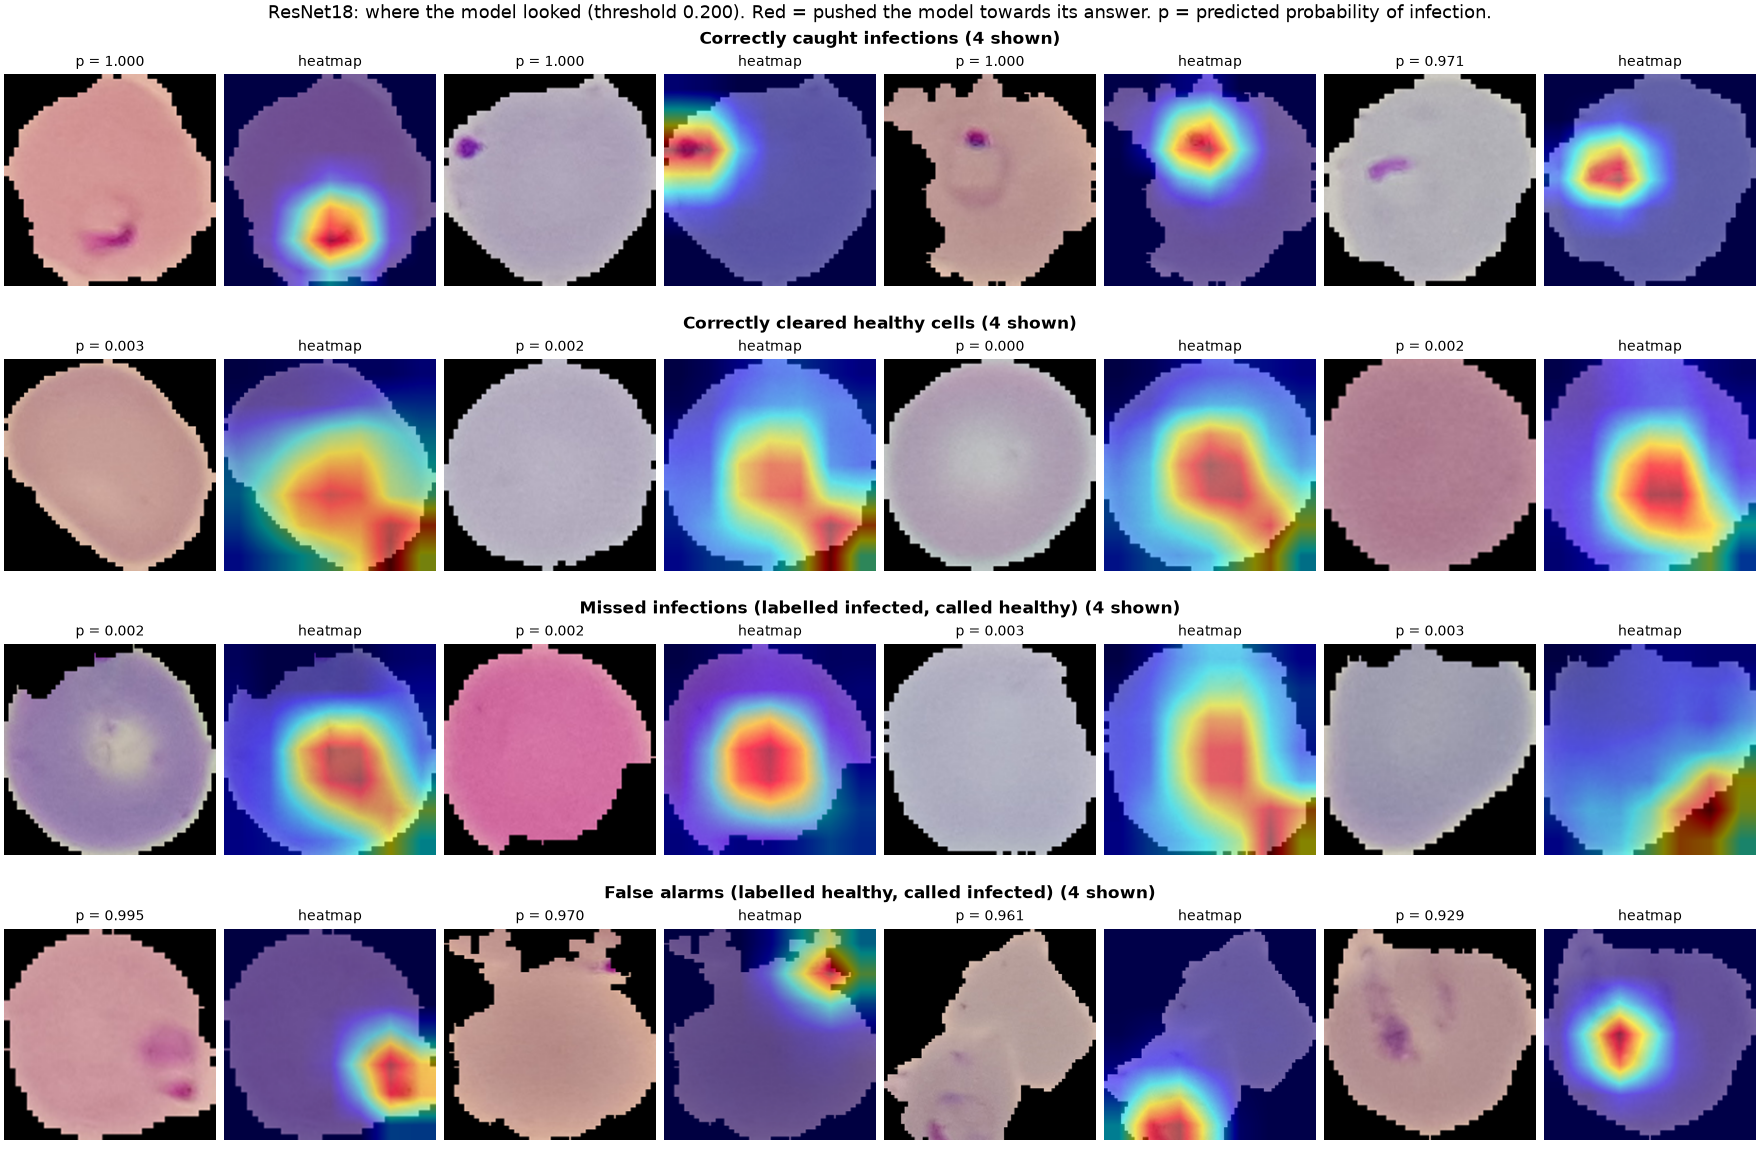
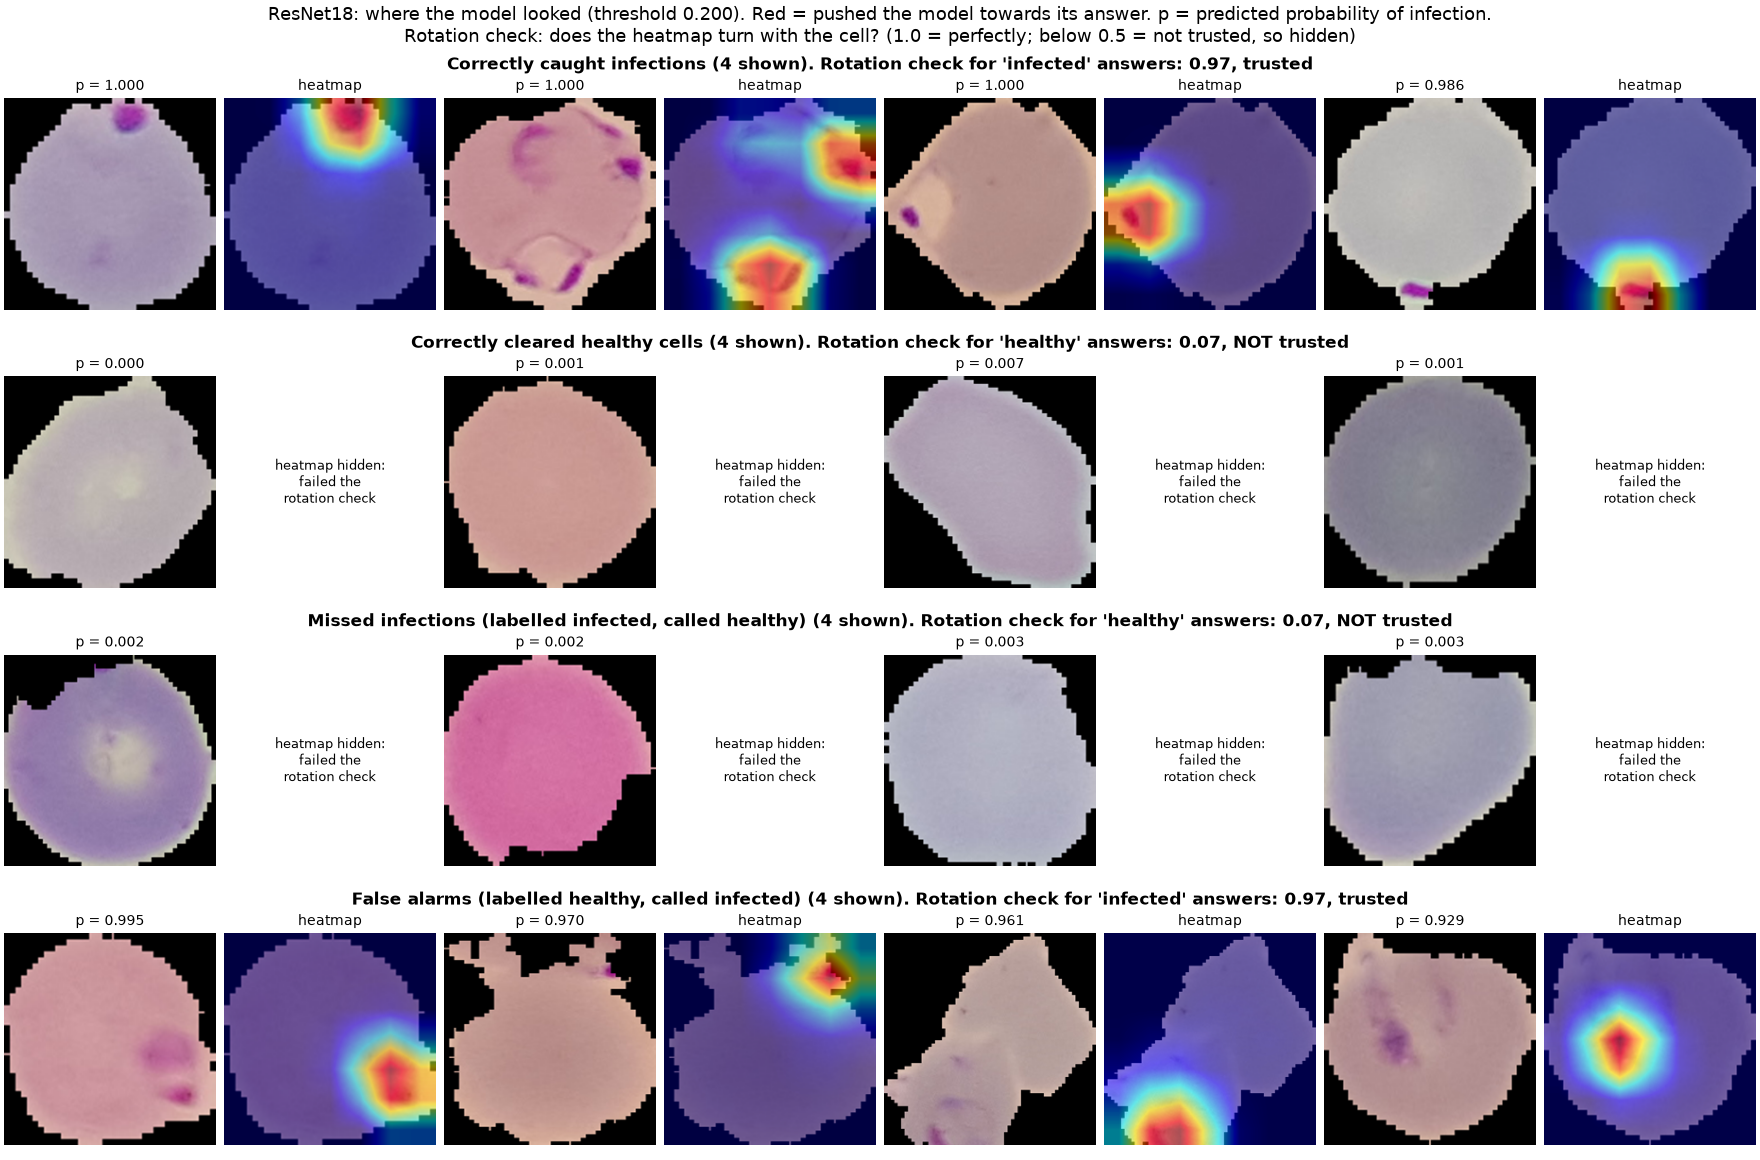
phase 7 recheck: rotation check for Grad-CAM, corrected findings
The recheck found that ResNet18's "why healthy?" heatmaps don't follow
the cell: rotating cells 180 degrees left their peak in the picture's
bottom-right corner (agreement 0.07; 91% bottom-right peaks either way).
ResNet18's decisions are not affected (mean |change in p| 0.018 under
rotation), so this is an explanation artifact, not a shortcut.

- gradcam.py: rotation check per model and answer; heatmaps scoring
  below 0.5 are hidden with a note; scores saved to gradcam_checks.json
  (SimpleCNN 0.96 / 0.93, ResNet18 0.97 / 0.07)
- tests: the check passes heatmaps that turn with the cell and fails
  heatmaps stuck in one corner
- learning notes: removed the "every example shown" overstatement and
  the unsupported description of ResNet18's healthy heatmaps

diff --git a/src/gradcam.py b/src/gradcam.py
@@ -19,10 +19,17 @@ How Grad-CAM works, in plain words:
        only the positive part: a coarse heatmap (7x7), stretched to the image's
        size and laid over the cell. Red = "this pushed me towards my answer".
 
+Can we trust a heatmap? Not automatically. In the Phase 7 recheck, ResNet18's
+"why healthy?" heatmaps turned out to light up the picture's bottom-right corner
+for almost every cell, rotated or not: a quirk of the model's machinery, not
+evidence. So every kind of heatmap now has to pass a ROTATION CHECK: rotate the
+cell 180°, and the heat must move with it. Heatmaps that fail are hidden.
+
 What happens, in the order of this file:
     1. target_layer_for()      which layer's feature maps to use, per model
     2. choose_examples()       pick cells: caught, cleared, missed, false alarms
     3. compute_heatmaps()      Grad-CAM itself (using the grad-cam library)
+    3b. rotation_check()       does each kind of heatmap turn with the cell?
     4. plots                   one grid per model, plus the cells BOTH models got wrong
     5. run_gradcam()           all of the above, for every trained model found
 
@@ -179,6 +186,88 @@ def overlay(display_image: np.ndarray, heatmap: np.ndarray) -> np.ndarray:
 
 
 # ===========================================================================
+# 3b. The rotation check: can we trust a heatmap?
+# ===========================================================================
+
+def content_agreement(heatmaps: np.ndarray, heatmaps_of_rotated: np.ndarray) -> float:
+    """
+    How well heatmaps "turn with the cell" (1.0 = perfectly, 0 = not at all).
+
+    heatmaps:            Grad-CAM for the original cells          (num_cells, height, width)
+    heatmaps_of_rotated: Grad-CAM for the same cells rotated 180° (num_cells, height, width)
+
+    We rotate the second set back and measure how similar each pair is (a
+    correlation). If the heatmap shows something IN the cell, rotating the cell
+    moves the heat with it, so after rotating back the two match. If the heat
+    sits at a fixed spot of the picture whatever the cell looks like (a quirk of
+    the model's machinery, not evidence), they don't.
+    """
+    rotated_back = np.rot90(heatmaps_of_rotated, k=2, axes=(1, 2))
+    correlations = []
+    for original, returned in zip(heatmaps, rotated_back):
+        if original.std() == 0 or returned.std() == 0:
+            continue  # a completely flat heatmap has no "where", so it can't be compared
+        correlations.append(np.corrcoef(original.ravel(), returned.ravel())[0, 1])
+    if not correlations:
+        return 0.0
+    return float(np.mean(correlations))
+
+
+def rotation_check(
+    model: nn.Module,
+    test_rows: pd.DataFrame,
+    data_dir: Path,
+    image_size: int,
+    probabilities: np.ndarray,
+    threshold: float,
+    rng: np.random.Generator,
+) -> dict[str, float]:
+    """
+    Run the rotation check separately for cells the model called infected and
+    cells it called healthy, because the two kinds of heatmap can behave differently.
+    Returns {"infected": agreement, "healthy": agreement}.
+    """
+    called_infected = predict_infected(probabilities, threshold)
+    agreements = {}
+    for answer_name, answer in (("infected", 1), ("healthy", 0)):
+        candidates = np.where(called_infected == answer)[0]
+        chosen = rng.permutation(candidates)[:config.GRADCAM_CHECK_CELLS]
+        if len(chosen) == 0:
+            agreements[answer_name] = 0.0  # the model never gave this answer: nothing to check or show
+            continue
+        heatmaps = []
+        heatmaps_of_rotated = []
+        # Small chunks, so memory use stays low.
+        for start in range(0, len(chosen), config.BATCH_SIZE):
+            chunk = chosen[start:start + config.BATCH_SIZE]
+            images = load_model_inputs(test_rows, chunk, data_dir, image_size)  # (chunk, 3, size, size)
+            rotated = torch.rot90(images, k=2, dims=(2, 3))                        # each picture turned 180°
+            explain_labels = [answer] * len(chunk)
+            heatmaps.append(compute_heatmaps(model, images, explain_labels))
+            heatmaps_of_rotated.append(compute_heatmaps(model, rotated, explain_labels))
+        agreements[answer_name] = content_agreement(np.concatenate(heatmaps), np.concatenate(heatmaps_of_rotated))
+    return agreements
+
+
+def passes_check(agreement: float) -> bool:
+    """True if heatmaps of this kind can be trusted (they turn with the cell)."""
+    return agreement >= config.GRADCAM_MIN_AGREEMENT
+
+
+def answer_for_group(group: str) -> str:
+    """Which answer the model gave for a group of cells: caught and false alarms were called infected."""
+    if group in ("caught", "false_alarm"):
+        return "infected"
+    return "healthy"
+
+
+def show_hidden_heatmap(axis: plt.Axes) -> None:
+    """Draw a short note instead of a heatmap that failed the rotation check."""
+    axis.text(0.5, 0.5, "heatmap hidden:\nfailed the\nrotation check", ha="center", va="center",
+              fontsize=9, transform=axis.transAxes)
+
+
+# ===========================================================================
 # 4. Plots
 # ===========================================================================
 
@@ -191,19 +280,30 @@ def plot_model_gradcam(
     data_dir: Path,
     probabilities: np.ndarray,
     threshold: float,
+    agreements: dict[str, float],
     path: Path,
 ) -> None:
-    """One grid per model: a row per group, each cell shown as original | heatmap."""
+    """
+    One grid per model: a row per group, each cell shown as original | heatmap.
+    Each row shows the rotation check for its kind of heatmap; failing heatmaps are hidden.
+    """
     per_group = config.GRADCAM_EXAMPLES_PER_GROUP
     figure = plt.figure(figsize=(2.2 * 2 * per_group, 2.9 * len(GROUP_TITLES)), layout="constrained")
     figure.suptitle(f"{DISPLAY_NAMES[model_name]}: where the model looked (threshold {threshold:.3f}). "
-                    "Red = pushed the model towards its answer. p = predicted probability of infection.",
+                    "Red = pushed the model towards its answer. p = predicted probability of infection.\n"
+                    f"Rotation check: does the heatmap turn with the cell? (1.0 = perfectly; "
+                    f"below {config.GRADCAM_MIN_AGREEMENT} = not trusted, so hidden)",
                     fontsize=13)
     row_figures = figure.subfigures(len(GROUP_TITLES), 1)
 
     for row_figure, (group, group_title) in zip(row_figures, GROUP_TITLES.items()):
         indices = examples[group]
-        row_figure.suptitle(f"{group_title} ({len(indices)} shown)", fontweight="bold")
+        answer = answer_for_group(group)
+        agreement = agreements[answer]
+        verdict = "trusted" if passes_check(agreement) else "NOT trusted"
+        row_figure.suptitle(f"{group_title} ({len(indices)} shown). "
+                            f"Rotation check for '{answer}' answers: {agreement:.2f}, {verdict}",
+                            fontweight="bold")
         axes = row_figure.subplots(1, 2 * per_group)
         for axis in axes:
             axis.axis("off")
@@ -221,8 +321,11 @@ def plot_model_gradcam(
             heatmap_axis = axes[2 * position + 1]
             original_axis.imshow(display_image)
             original_axis.set_title(f"p = {probabilities[index]:.3f}", fontsize=10)
-            heatmap_axis.imshow(overlay(display_image, heatmaps[position]))
-            heatmap_axis.set_title("heatmap", fontsize=10)
+            if passes_check(agreement):
+                heatmap_axis.imshow(overlay(display_image, heatmaps[position]))
+                heatmap_axis.set_title("heatmap", fontsize=10)
+            else:
+                show_hidden_heatmap(heatmap_axis)
 
     figure.savefig(path, dpi=100)
     plt.close(figure)
@@ -280,9 +383,15 @@ def plot_shared_mistakes(
         axes[row, 0].imshow(display_image)
         axes[row, 0].set_title(f"labelled {label_name}", fontsize=10)
         for column, model_name in enumerate(model_names, start=1):
-            probability = results_by_model[model_name]["probabilities"][index]
-            axes[row, column].imshow(overlay(display_image, heatmaps_by_model[model_name][row]))
+            results = results_by_model[model_name]
+            probability = results["probabilities"][index]
+            # Every model got this cell wrong, so its answer is the opposite of the label.
+            answer = "healthy" if labels[index] == config.LABEL_PARASITIZED else "infected"
             axes[row, column].set_title(f"{DISPLAY_NAMES[model_name]}: p = {probability:.3f}", fontsize=10)
+            if passes_check(results["agreements"][answer]):
+                axes[row, column].imshow(overlay(display_image, heatmaps_by_model[model_name][row]))
+            else:
+                show_hidden_heatmap(axes[row, column])
 
     figure.savefig(path, dpi=100)
     plt.close(figure)
@@ -329,16 +438,21 @@ def run_gradcam(
         test_loader = get_dataloaders(split_table, data_dir, image_size)["test"]
         probabilities, labels = predict_probabilities(model, test_loader, device)
 
+        agreements = rotation_check(model, test_rows, data_dir, image_size, probabilities, threshold, rng)
+        for answer, agreement in agreements.items():
+            verdict = "trusted" if passes_check(agreement) else "NOT trusted, hidden in the figures"
+            print(f"  rotation check, '{answer}' heatmaps: {agreement:.2f} ({verdict})")
+
         examples = choose_examples(labels, probabilities, threshold, config.GRADCAM_EXAMPLES_PER_GROUP, rng)
         figure_path = output_dir / f"{model_name}_gradcam.png"
         plot_model_gradcam(model_name, model, image_size, examples, test_rows, data_dir,
-                           probabilities, threshold, figure_path)
+                           probabilities, threshold, agreements, figure_path)
         print(f"  saved {figure_path}")
         saved_paths.append(figure_path)
 
         results_by_model[model_name] = {
             "model": model, "image_size": image_size, "threshold": threshold,
-            "probabilities": probabilities, "labels": labels,
+            "probabilities": probabilities, "labels": labels, "agreements": agreements,
         }
 
     if len(results_by_model) >= 2:
@@ -346,6 +460,19 @@ def run_gradcam(
         num_shared = plot_shared_mistakes(results_by_model, test_rows, data_dir, shared_path)
         print(f"Cells every model got wrong: {num_shared}. Saved {shared_path}")
         saved_paths.append(shared_path)
+
+    # Save the rotation-check scores, so the figures' trust labels can be traced back.
+    checks = {}
+    for model_name, results in results_by_model.items():
+        checks[model_name] = {
+            "agreement_for_infected_answers": results["agreements"]["infected"],
+            "agreement_for_healthy_answers": results["agreements"]["healthy"],
+            "minimum_to_trust": config.GRADCAM_MIN_AGREEMENT,
+            "cells_checked_per_answer": config.GRADCAM_CHECK_CELLS,
+        }
+    checks_path = output_dir / "gradcam_checks.json"
+    checks_path.write_text(json.dumps(checks, indent=2))
+    saved_paths.append(checks_path)
     return saved_paths
 
 

diff --git a/tests/test_gradcam.py b/tests/test_gradcam.py
@@ -13,6 +13,7 @@ Run them with:
 from pathlib import Path
 
 import numpy as np
+import pytest
 import torch
 
 from src import config, data, evaluate, gradcam, train
@@ -67,6 +68,42 @@ def test_gradcam_figures_are_made_for_both_models(tmp_path: Path) -> None:
     saved = gradcam.run_gradcam(split_table, data_dir, output_dir, output_dir, output_dir, CPU)
 
     names = sorted(path.name for path in saved)
-    assert names == ["resnet18_gradcam.png", "shared_mistakes_gradcam.png", "simple_cnn_gradcam.png"]
+    assert names == ["gradcam_checks.json", "resnet18_gradcam.png",
+                     "shared_mistakes_gradcam.png", "simple_cnn_gradcam.png"]
     for path in saved:
         assert path.stat().st_size > 0
+
+
+# ---------------------------------------------------------------------------
+# The rotation check
+# ---------------------------------------------------------------------------
+
+def blob_at(row: int, column: int, size: int = 8) -> np.ndarray:
+    """A made-up heatmap: all zero except one hot square at (row, column)."""
+    heatmap = np.zeros((size, size))
+    heatmap[row:row + 2, column:column + 2] = 1.0
+    return heatmap
+
+
+def test_heatmaps_that_turn_with_the_cell_pass_the_rotation_check() -> None:
+    # Original: heat at the top-left. Rotated cell: heat at the bottom-right,
+    # exactly where the top-left content ends up after a 180° turn.
+    original = np.stack([blob_at(1, 1)])
+    of_rotated = np.stack([np.rot90(blob_at(1, 1), k=2)])
+    agreement = gradcam.content_agreement(original, of_rotated)
+    assert agreement == pytest.approx(1.0)
+    assert gradcam.passes_check(agreement)
+
+
+def test_heatmaps_stuck_in_one_corner_fail_the_rotation_check() -> None:
+    # The ResNet18 "healthy" problem: heat at the bottom-right corner of the
+    # picture, whether the cell is rotated or not.
+    original = np.stack([blob_at(5, 5)])
+    of_rotated = np.stack([blob_at(5, 5)])
+    agreement = gradcam.content_agreement(original, of_rotated)
+    assert not gradcam.passes_check(agreement)
+
+
+def test_flat_heatmaps_are_skipped_by_the_rotation_check() -> None:
+    flat = np.zeros((1, 8, 8))
+    assert gradcam.content_agreement(flat, flat) == 0.0

diff --git a/src/config.py b/src/config.py
@@ -216,6 +216,16 @@ GRADCAM_EXAMPLES_PER_GROUP: int = 4
 # Cells shown in the "both models got it wrong" figure.
 GRADCAM_SHARED_MISTAKES: int = 6
 
+# The rotation check: a heatmap that really shows the cell should turn with the
+# cell when the picture is rotated. We check this on up to this many test cells
+# per answer ("infected" / "healthy") and model...
+GRADCAM_CHECK_CELLS: int = 100
+# ...and only trust heatmaps whose agreement (a correlation: 1.0 = identical,
+# 0 = unrelated) is at least this. Found necessary in the Phase 7 recheck:
+# ResNet18's "why healthy?" heatmaps scored 0.00 (they always lit the picture's
+# bottom-right corner), while all the others scored above 0.9.
+GRADCAM_MIN_AGREEMENT: float = 0.5
+
 # ---------------------------------------------------------------------------
 # Speed benchmark (Phase 6 comparison)
 # ---------------------------------------------------------------------------

diff --git a/docs/learning_notes.md b/docs/learning_notes.md
@@ -372,10 +372,29 @@ Even a barely-trained smoke-test ResNet18 lit up on the purple blob in most corr
 ### What the real heatmaps showed (test set, `results/*_gradcam.png`)
 Before drawing them, both models were re-evaluated on the laptop with the downloaded images: thresholds, AUC, missed infections and false alarms matched the Kaggle results **exactly**. So these heatmaps explain the same decisions we reported.
 
-- **Correctly caught infections: both models look at the parasite.** The heat sits right on the purple stained spot, in every example shown. That's what we hoped for. SimpleCNN's heatmaps are sharper (a 16×16 grid vs ResNet18's 7×7), so its hot spots are tighter.
-- **Correctly cleared healthy cells:** the "why healthy?" evidence is spread over the body of the cell, which makes sense: "healthy" means "no spot anywhere".
-- **False alarms: both models fire on purple spots** in cells labelled healthy. The models are doing what they learned; the question is what those spots are: a parasite the label missed, or a platelet or stain speck sitting on a healthy cell. Only an expert can say.
-- **Missed infections: there's no spot to find.** The heat is spread over the cell, just as for truly healthy cells, and to the eye most of these "infected" cells show no visible parasite.
-- **78 test cells fooled both models.** In 5 of the 6 shown, the label says infected but no parasite is visible; in the other, the label says healthy but two purple blobs are clearly there. This makes **label errors** a likely explanation for part of the "mistakes", though it doesn't prove it.
-- **One thing to keep an eye on:** some of ResNet18's "why healthy?" heatmaps peak at the **bottom-right corner, partly on the black background**, which shouldn't carry any information. It's weak, and most of the heat stays on the cell, but it could be a small shortcut (or an effect of ResNet18's coarse 7×7 grid). It goes in the README's limitations.
-- **Practical note:** Grad-CAM for both models on the full test set took about 15 minutes on the laptop. Most of that is predicting all 3,726 cells to find the examples.
+*(Corrected after a recheck: see "Lesson: check your explanations too" below.)*
+
+- **Correctly caught infections: the heat sits on the purple stained parasite**, for both models, in the examples shown. SimpleCNN's heatmaps are sharper (a 16×16 grid vs ResNet18's 7×7). One honest exception from the first run: a SimpleCNN cell called infected with p = 0.078 (only just above its very low 0.073 threshold) had its heat on a tiny speck at the image's corner, not on a clear parasite.
+- **"Why healthy?" heatmaps: trustworthy for SimpleCNN only.** SimpleCNN's spread over the body of the cell ("no spot anywhere"), and they pass the rotation check. ResNet18's do **not** pass it, so they're hidden (see below).
+- **False alarms: both models fire on purple spots** in cells labelled healthy. Whether those spots are a parasite the label missed, or a platelet or stain speck on a healthy cell, only an expert can say.
+- **Missed infections: there's no spot to find.** SimpleCNN's heat is spread over the cell, just as for truly healthy cells, and to the eye most of these "infected" cells show no clear parasite (one has faint marks in a pale centre).
+- **78 test cells fooled both models.** In 5 of the 6 shown, the label says infected but no clear parasite is visible; in the other, the label says healthy but two purple blobs are there. This makes **label errors** a likely explanation for part of the "mistakes", but it doesn't prove it.
+- **Practical note:** Grad-CAM for both models on the full test set, including the rotation check, takes about 15 to 20 minutes on the laptop.
+
+### Lesson: check your explanations too (the rotation check)
+**What happened:** at first, I described some of ResNet18's "why healthy?" heatmaps as peaking at the picture's bottom-right corner, and guessed it might be a shortcut. A guess isn't good enough, so we tested it.
+**The test:** rotate each cell 180° and run Grad-CAM again. A heatmap that shows something *in the cell* turns with the cell. A heatmap that sits at a fixed spot *of the picture* doesn't.
+**The results** (agreement after rotating back: 1.0 = perfectly turns with the cell, 0 = unrelated), from `results/gradcam_checks.json`:
+
+| | "why infected?" | "why healthy?" |
+|---|---|---|
+| SimpleCNN | 0.96 ✓ | 0.93 ✓ |
+| ResNet18 | 0.97 ✓ | **0.07 ✗** |
+
+In a first test on 300 cells, 91% of ResNet18's "why healthy?" heatmaps peaked in the bottom-right quarter **whether the cell was rotated or not**.
+**What it means:**
+- It is **not** a shortcut in ResNet18's *decisions*: rotating cells changed its probabilities by only 0.018 on average (3 of 300 decisions changed).
+- It **is** a failure of the *explanation*. "Healthy" means "no parasite anywhere", so there's no single place to point to. Grad-CAM then falls back on a quirk of how ResNet18's strided layers process the picture, which favours one corner. Those heatmaps say nothing about the cell.
+
+**The fix:** every kind of heatmap must now pass the rotation check (agreement ≥ 0.5, `GRADCAM_MIN_AGREEMENT` in `src/config.py`); failing ones are **hidden** in the figures, with a note saying why. **Where:** `src/gradcam.py` → `content_agreement()` and `rotation_check()`.
+**The bigger lesson:** an explanation method can be wrong too. Heatmaps look convincing whatever they show, so they need checking like any other result.
